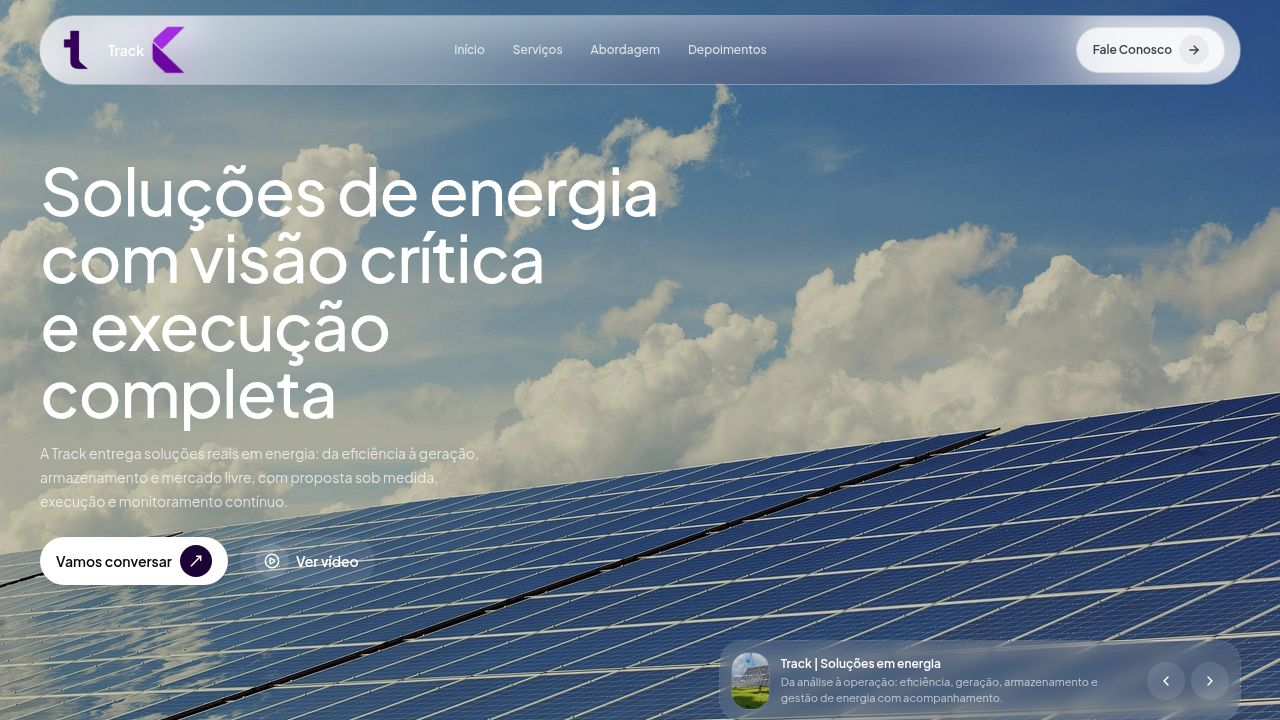
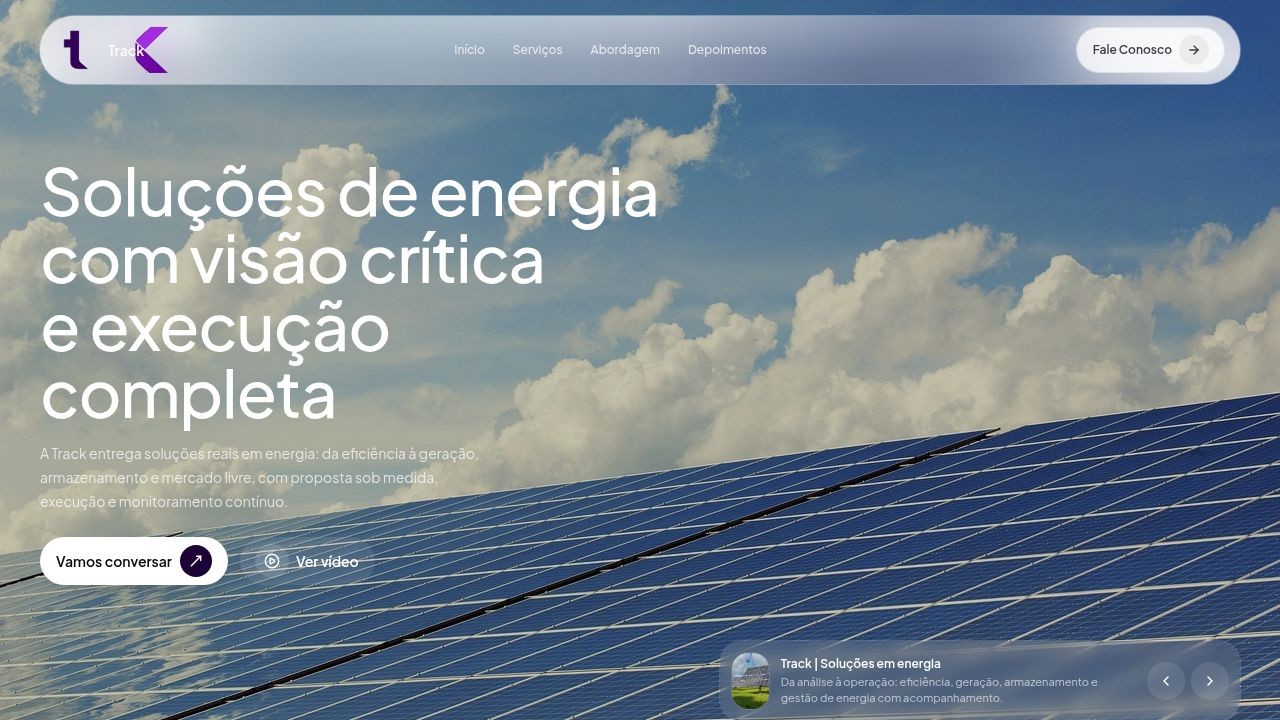
Update header gradient to have gray on the edges and lighter in the center
Reverses the gradient direction on the SiteHeader component to place gray on the edges and lighter colors in the center.

Replit-Commit-Author: Agent
Replit-Commit-Session-Id: eab33d07-6452-4e89-86f7-8c1495a4d0c6
Replit-Commit-Checkpoint-Type: full_checkpoint
Replit-Commit-Event-Id: 4f6342a2-836e-4c95-9b32-486da927b430
Replit-Commit-Screenshot-Url: https://storage.googleapis.com/screenshot-production-us-central1/eede4cac-3f58-423c-a1e9-f071d8b2dafc/eab33d07-6452-4e89-86f7-8c1495a4d0c6/0ax4z87
Replit-Helium-Checkpoint-Created: true

Changed region(s): [[0.3438, 0.0, 0.6875, 0.1222], [0.0938, 0.0306, 0.1562, 0.1222]]

diff --git a/client/src/components/site-shell.tsx b/client/src/components/site-shell.tsx
@@ -189,7 +189,7 @@ export function SiteHeader({ onContact }: { onContact: () => void }) {
             className="pointer-events-none absolute inset-0"
             style={{
               background:
-                "linear-gradient(90deg, rgba(255,255,255,0.34) 0%, rgba(255,255,255,0.10) 22%, rgba(255,255,255,0.04) 50%, rgba(255,255,255,0.10) 78%, rgba(255,255,255,0.34) 100%)",
+                "linear-gradient(90deg, rgba(240,240,242,0.55) 0%, rgba(255,255,255,0.14) 22%, rgba(255,255,255,0.46) 50%, rgba(255,255,255,0.14) 78%, rgba(240,240,242,0.55) 100%)",
               opacity: 0.9,
               zIndex: 0,
             }}
